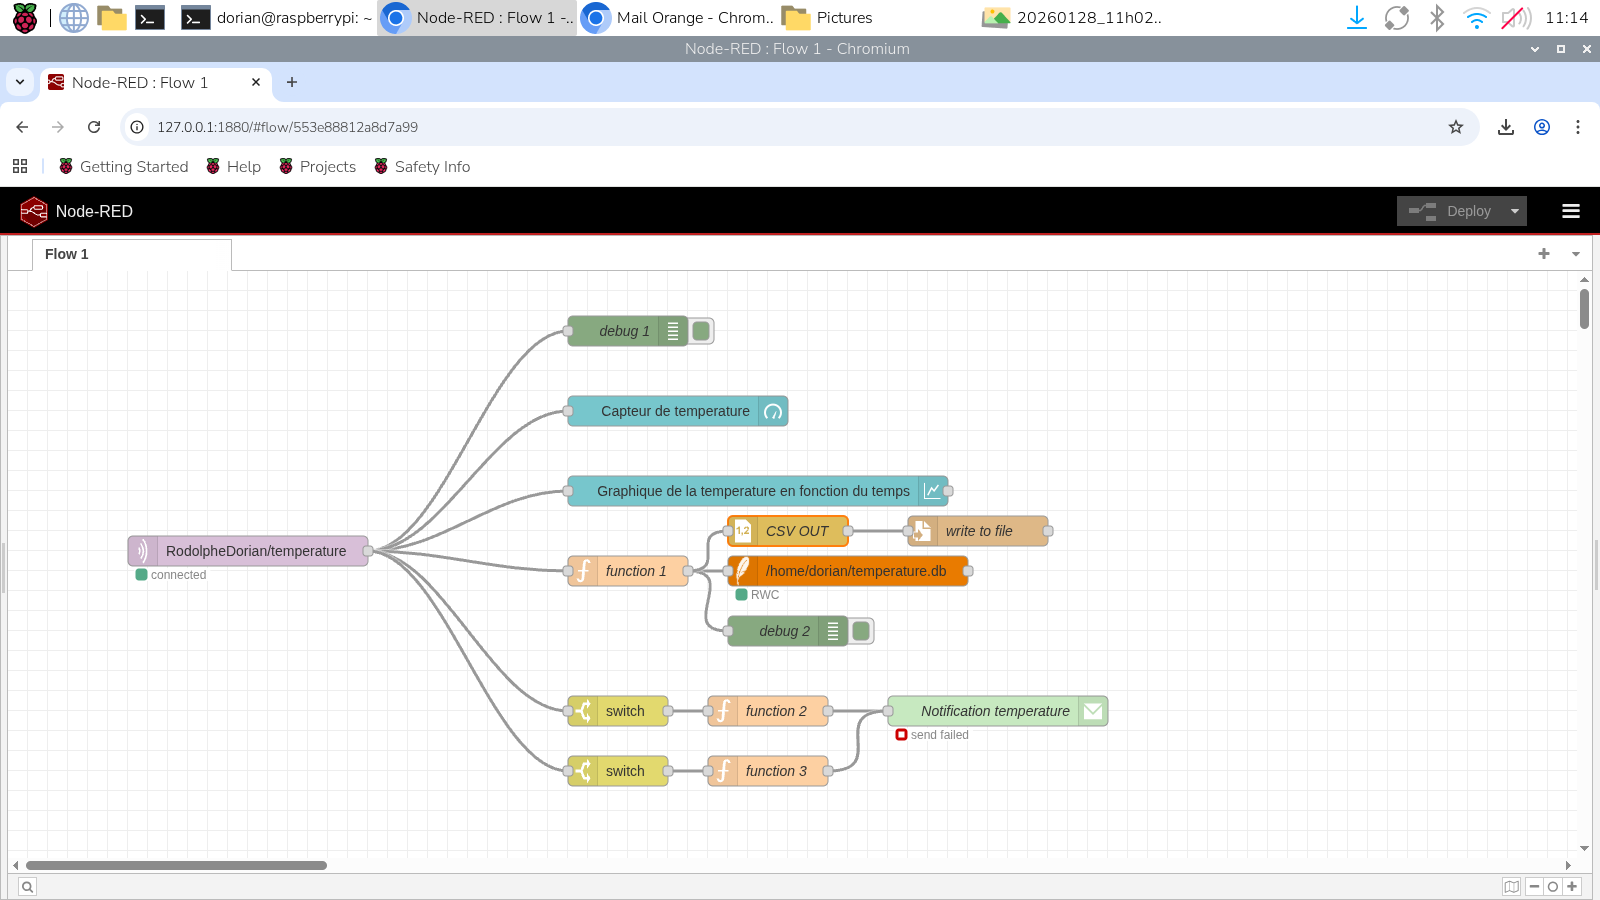
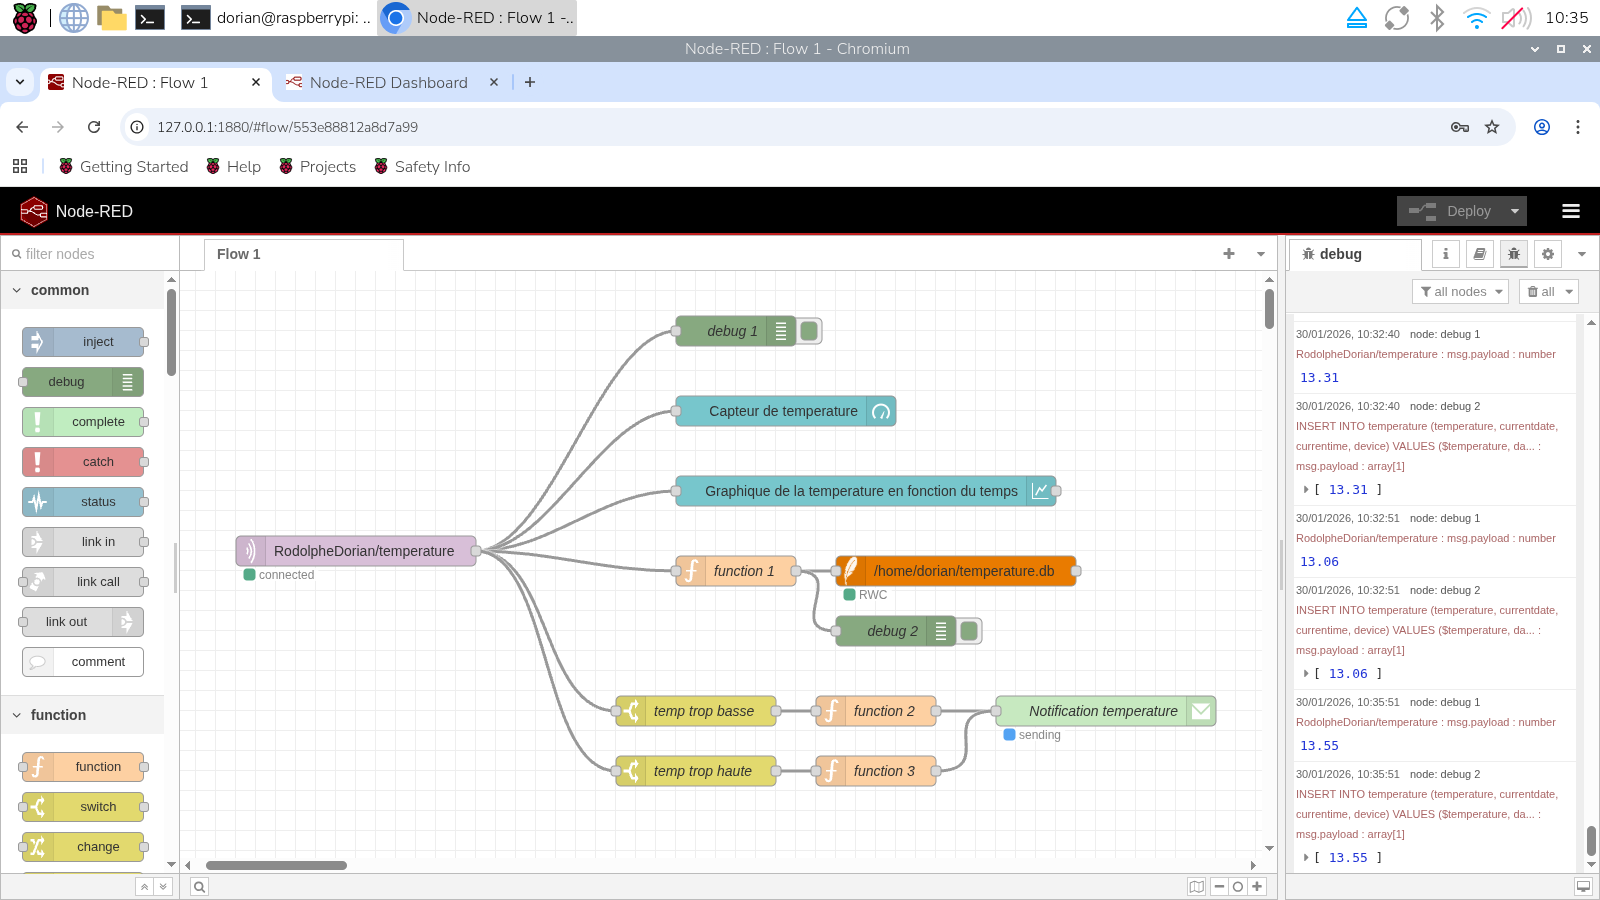
Ajout images

diff --git a/README.md b/README.md
@@ -103,6 +103,9 @@ Et lorsque la température augmente et passe au dessus des 18°C, la couleur pas
 
 Et quand la température dépasse 27°C, on passe au rouge.
 
+<p align="center"> <img src="Rouge.png"  width="600"></p>
+<p align="center"><em>Figure 8 : Jauge et Graphique</em></p>
+
 ## *Stockage et Exploitation des Données*
 
 Dans cette partie, nous allons dans un premier temps enregistrer les données dans une base SQlite sur la Raspberry Pi. Puis dans un second temps, mettre en place une structure de base de données organisée afin d’assurer une récupération efficace des données.
@@ -154,7 +157,7 @@ SELECT * from temperature
 On obtient le tableau suivant :
 
 <p align="center"> <img src="Tableau.png"  width="250"></p>
-<p align="center"><em>Figure 7 : Base de données SQlite</em></p>
+<p align="center"><em>Figure 8 : Base de données SQlite</em></p>
 
 6. Création d'un fichier CSV
 
@@ -171,7 +174,7 @@ Ce fichier « data.csv » est enregistrer dans /home/dorian, dans la carte SD de
 <p align="center">
   <img src="Dossier.png" width="45%" />
   <img src="CSV.png" width="20%" />
-</p><p align="center"><em>Figure 8 : Chemin d'accès CSV</em></p>
+</p><p align="center"><em>Figure 9 : Chemin d'accès CSV</em></p>
 
 ## *Amélioration affichage et Interface Utilisateur*
 
@@ -185,7 +188,7 @@ Notre schéma est composé de 7 blocs principaux :
 - 1 bloc graphique
 
 <p align="center"> <img src="Node2.png"  width="600"></p>
-<p align="center"><em>Figure 9 : Interface Node-Red</em></p>
+<p align="center"><em>Figure 10 : Interface Node-Red</em></p>
 
 
 
@@ -232,6 +235,41 @@ Le programme à toute une série de code couleur qui idique l'état de la transm
 - 🟠 --> Echec de la connexion au MQTT & Erreur envoie MQTT
 - 🟡 --> Tentative de connexion au Wifi
 - 🔵 --> Démarage du programme Arduino (Void setup())
+
+<ins>Configuration alerte par mail :</ins>
+
+Sur Node-Red on vient ajouter les blocs `Switch`; `function` et `Mail`
+
+Pour configurer les blocs switch on sélectionne payload dans "Property" et avec les flèches `<` et `>` on définit les températures limites.
+
+Pour configurer les blocs function on rentre les script suivant dans l'onglet `On Message` :
+
+<p align="center"> <img src="Basse.png"  width="600"></p>
+<p align="center"><em>Figure 11 : Fonction température basse</em></p>
+
+<p align="center"> <img src="Haute.png"  width="600"></p>
+<p align="center"><em>Figure 12 : Fonction température haute</em></p>
+
+Pour configurer le blocs e-mail il faut remplir comme ceci :
+
+<p align="center"> <img src="Gmail.png"  width="600"></p>
+<p align="center"><em>Figure 13 : Config bloc e-mail</em></p>
+
+Il faut également configurer son adresse gmail, voici les étapes :
+
+- Aller dans Compte --> Sécurité et connexion --> Validation en deux étape
+ - Cliquer sur "Activer la validation en deux étapes"
+- Puis aller dans Mot de passe des applications
+ - Rentrer le nom de l'application
+ - Puis faite "Créer"
+ - Copier le code qui s'affiche sur votre écran dans Node-Red dans `Password`
+
+Un fois que tout est fait on reçoit correctement les mails lorsque la température dépasse les limites fixés qui était ici de `18` et `20`
+
+<p align="center">
+  <img src="Mail1.png" width="45%" />
+  <img src="Mail2.png" width="45%" />
+</p><p align="center"><em>Figure 9 : Alerte mail</em></p>
 
 ## *Sécurisation et Fiabilité*
 
